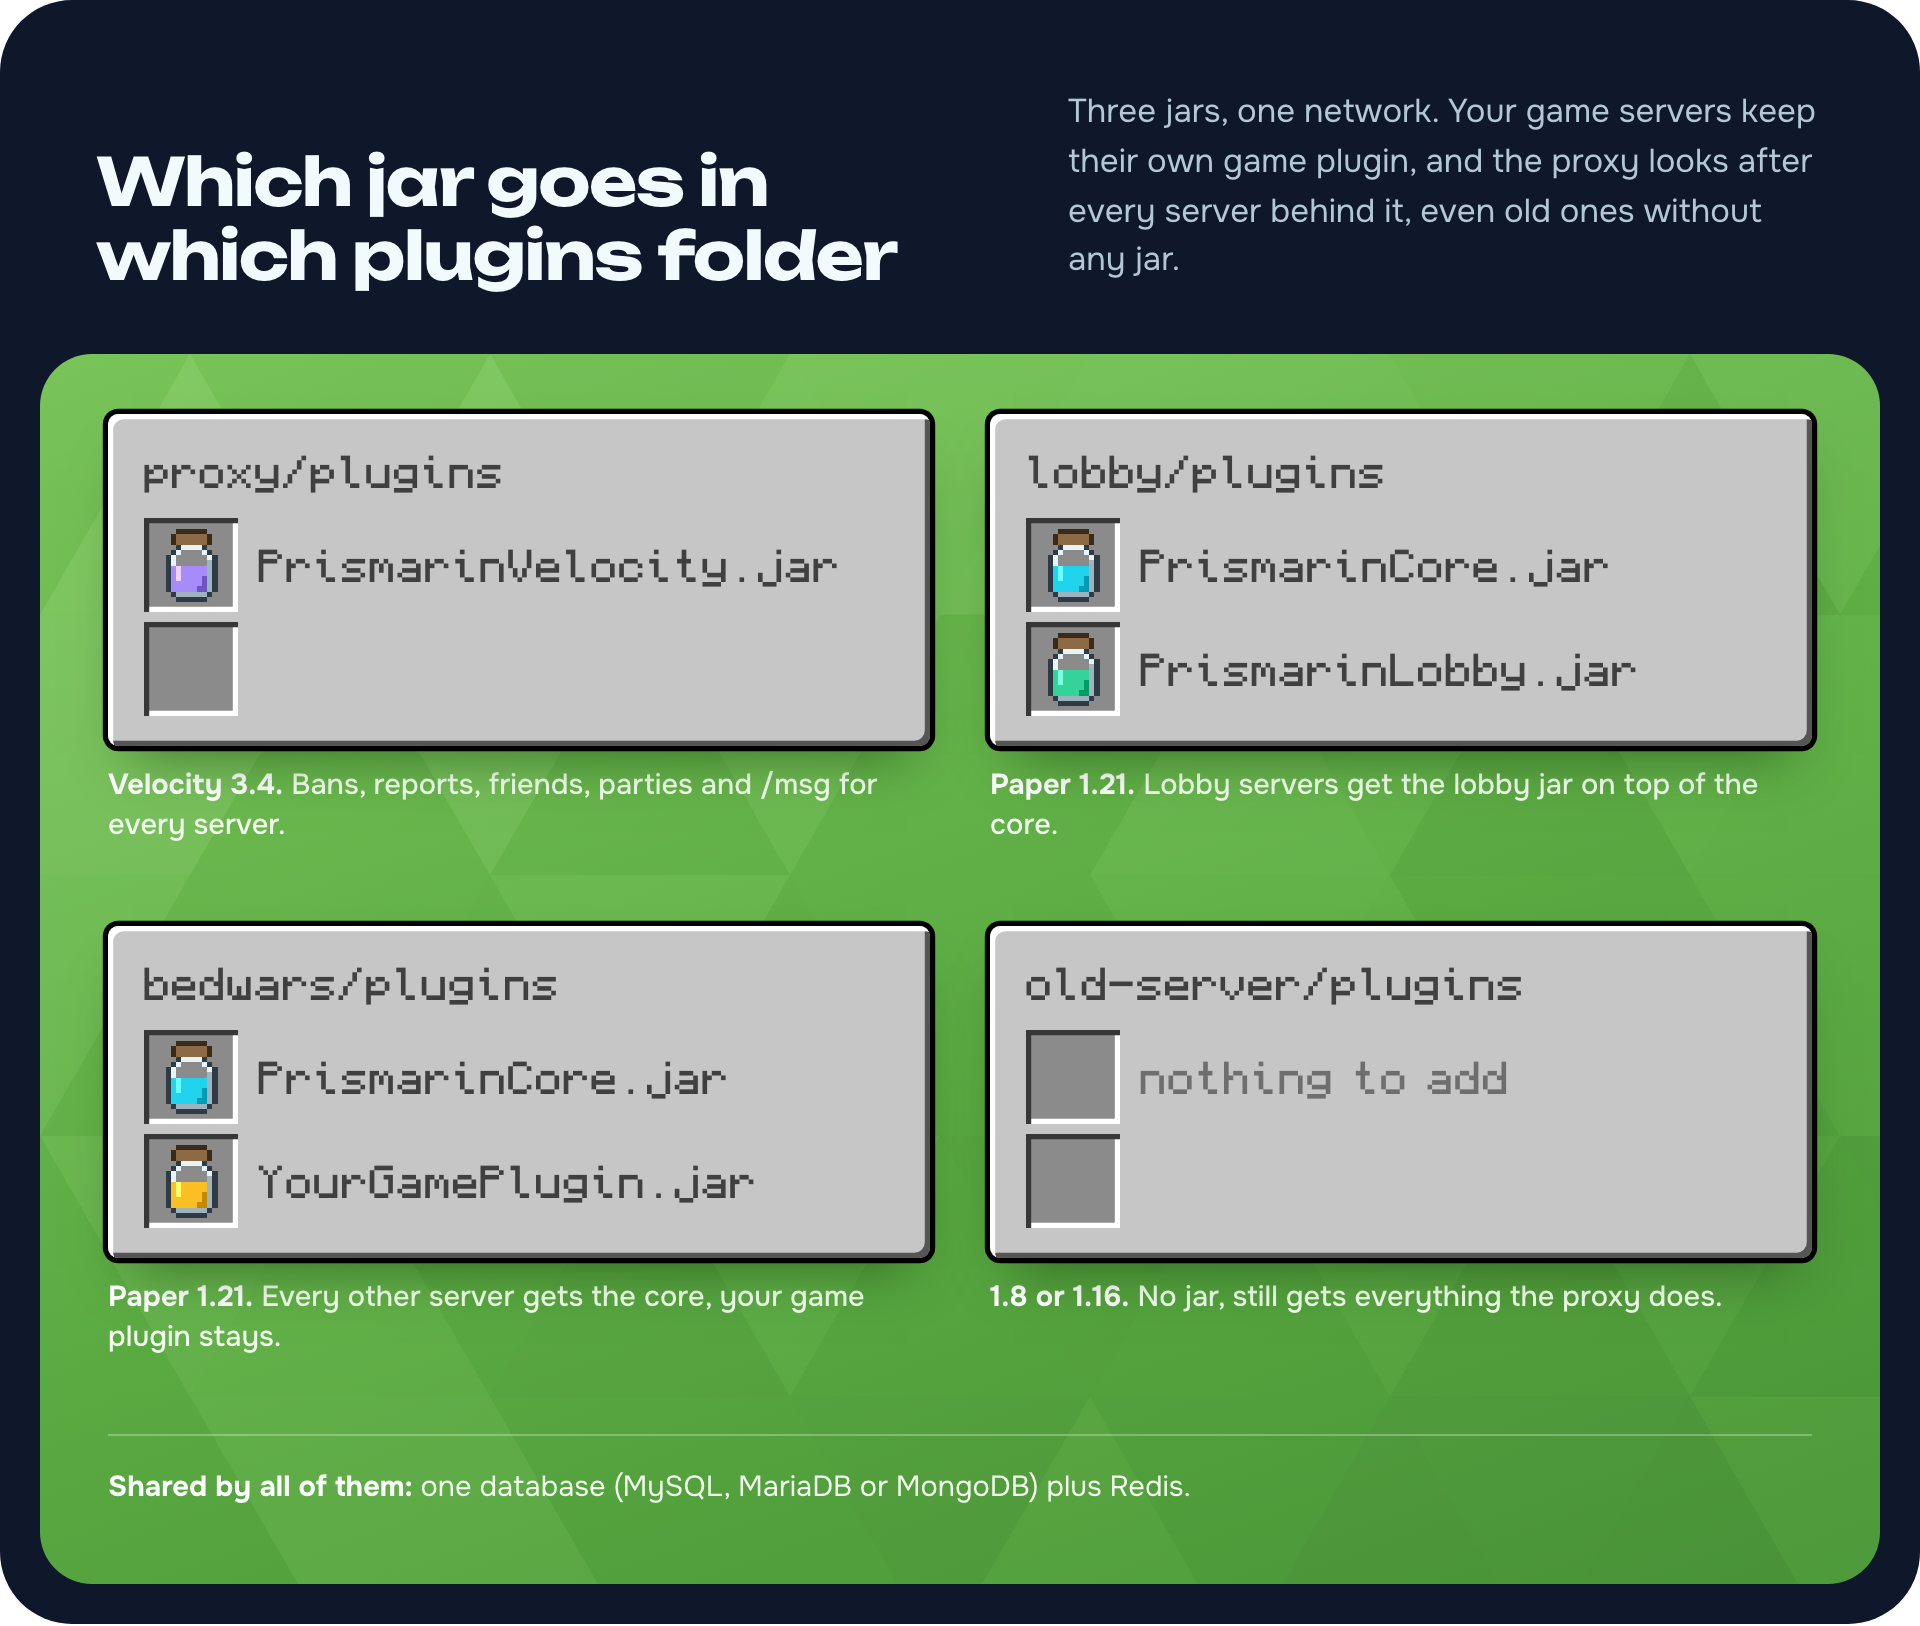
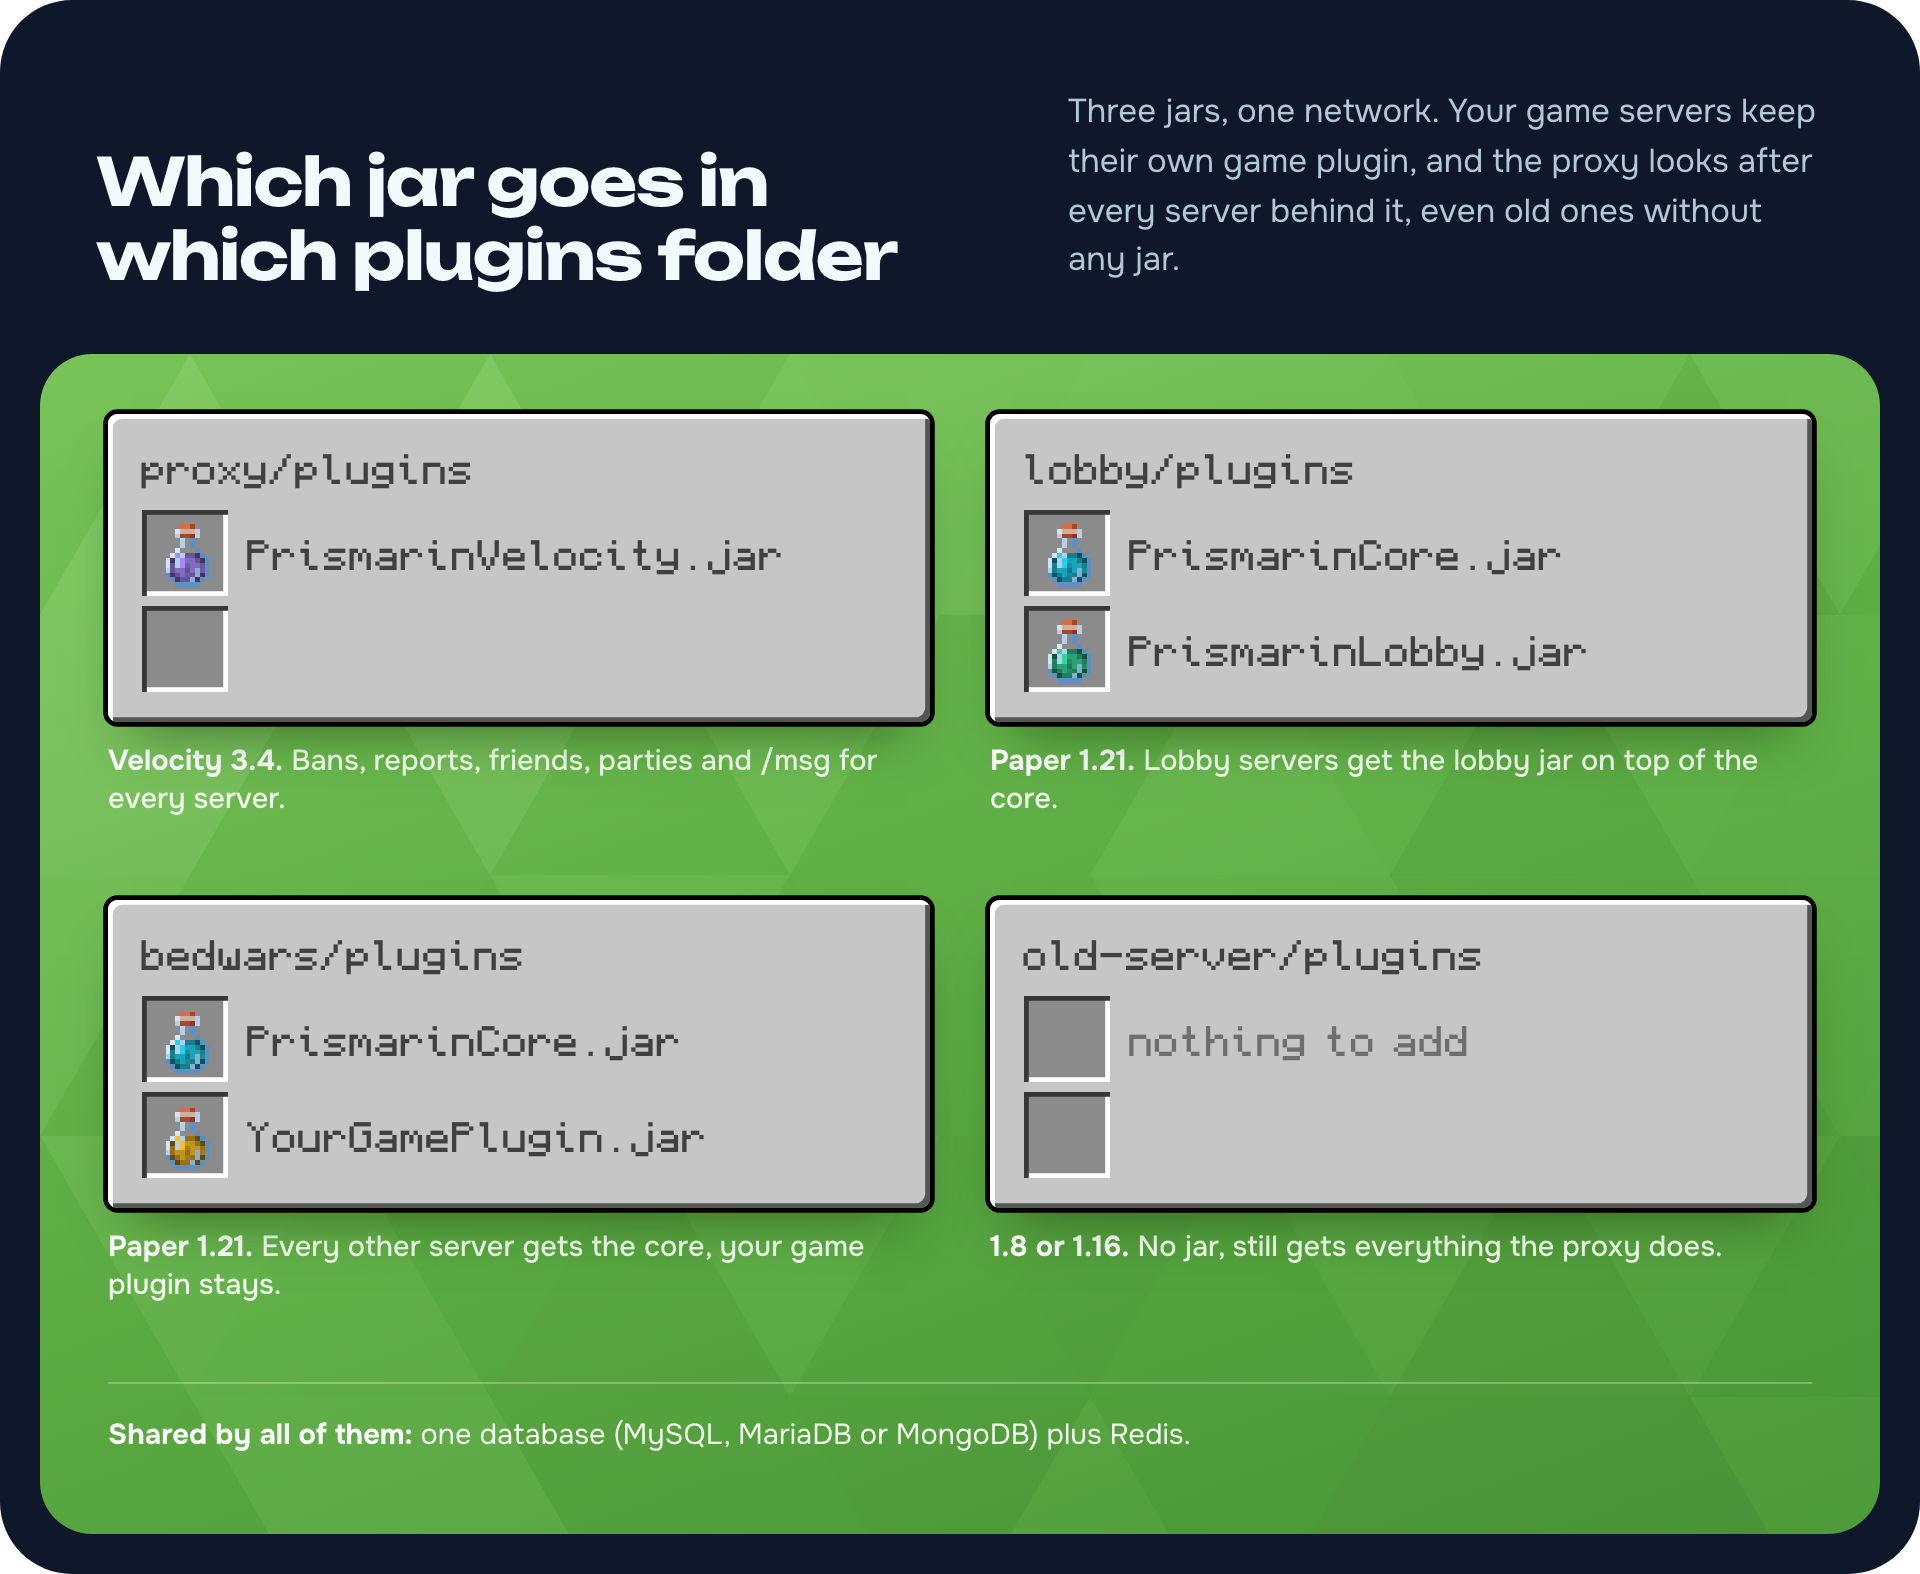
Add the PRISMARIN Lobby page and real item textures in the graphics

diff --git a/assets/listing/lobby/description.md b/assets/listing/lobby/description.md
@@ -1,0 +1,46 @@
+![PRISMARIN Lobby, a ready-made lobby for PRISMARIN networks](https://raw.githubusercontent.com/LeonManuel0705/prismarin/main/assets/listing/lobby/banner.png)
+
+PRISMARIN Lobby is the ready-made lobby for PRISMARIN networks. Put it next to PRISMARIN on your lobby servers and players get a navigator, their profile, a language menu, a nick tool and a quiet place to wait. Every item, menu and text is set in YAML, and every part can be switched off.
+
+## Features
+
+![The navigator with server groups, player counts and the game state of a single server](https://raw.githubusercontent.com/LeonManuel0705/prismarin/main/assets/listing/lobby/navigator.png)
+
+* Navigator with the server groups from servers.yml, live player counts and game states, one click to the best free server
+* Several lobby worlds or lobby servers with balancing, premium lobbies and a lobby selector
+* Nick tool, silent lobby, player hider, double jump and void teleport
+* Welcome title on the first join of a session, not on every server switch
+
+![A hotbar with compass, nether star, name tag, a custom emerald shop item, player head, amethyst shard, TNT and lime dye, plus the config of the shop item](https://raw.githubusercontent.com/LeonManuel0705/prismarin/main/assets/listing/lobby/hotbar.png)
+
+* Every hotbar item can be moved, renamed, switched off or replaced
+* Your own items with actions per click: player or console commands, messages, action bar texts, menus, servers, server groups, lobbies and sounds
+
+![The profile menu with the player head, name tag for the rank, gold ingot, emerald, experience bottle, totem for friends, a flag head for the language and cake for the party](https://raw.githubusercontent.com/LeonManuel0705/prismarin/main/assets/listing/lobby/profile.png)
+
+* Profile menu behind the player's own head with rank, currencies, level, friends and party
+* Language menu with German and English included, another language is one more messages file
+
+## Installation
+
+1. Install PRISMARIN first: PrismarinCore on every Paper server, PrismarinVelocity on the proxy.
+2. Put `PrismarinLobby.jar` into the plugins folder of each lobby server and start it once.
+3. Stand where players should appear and run `/setspawn`, then `/setvoid <height>` for the void teleport.
+
+## Commands and permissions
+
+| Command | Permission | Default |
+|:---|:---|:---|
+| `/lobbybuild [player]` | `prismarin.lobby.build`, `prismarin.lobby.build.others` | op |
+| `/setspawn [clear]` | `prismarin.lobby.setspawn` | op |
+| `/setvoid <height\|here\|off> [world]` | `prismarin.lobby.setvoid` | op |
+| Premium lobbies | `prismarin.lobby.premium` | nobody |
+| Silent lobby item | `prismarin.lobby.silent` | op |
+
+## For developers
+
+`net.prismarin.lobby.api.LobbyService` lets other plugins add hotbar items and entries to the navigator, profile and lobby selector, open lobby menus, send players to a lobby or its spawn, and listen to `LobbyEnteredEvent` and `LobbyLeftEvent`. The full reference is in [docs/modules/lobby.md](https://github.com/LeonManuel0705/prismarin/blob/main/docs/modules/lobby.md).
+
+## Requirements
+
+Paper 1.21.7 to 1.21.11, Java 21 and PRISMARIN 1.0.4 or newer on the same server. MIT licensed, source code: https://github.com/LeonManuel0705/prismarin
